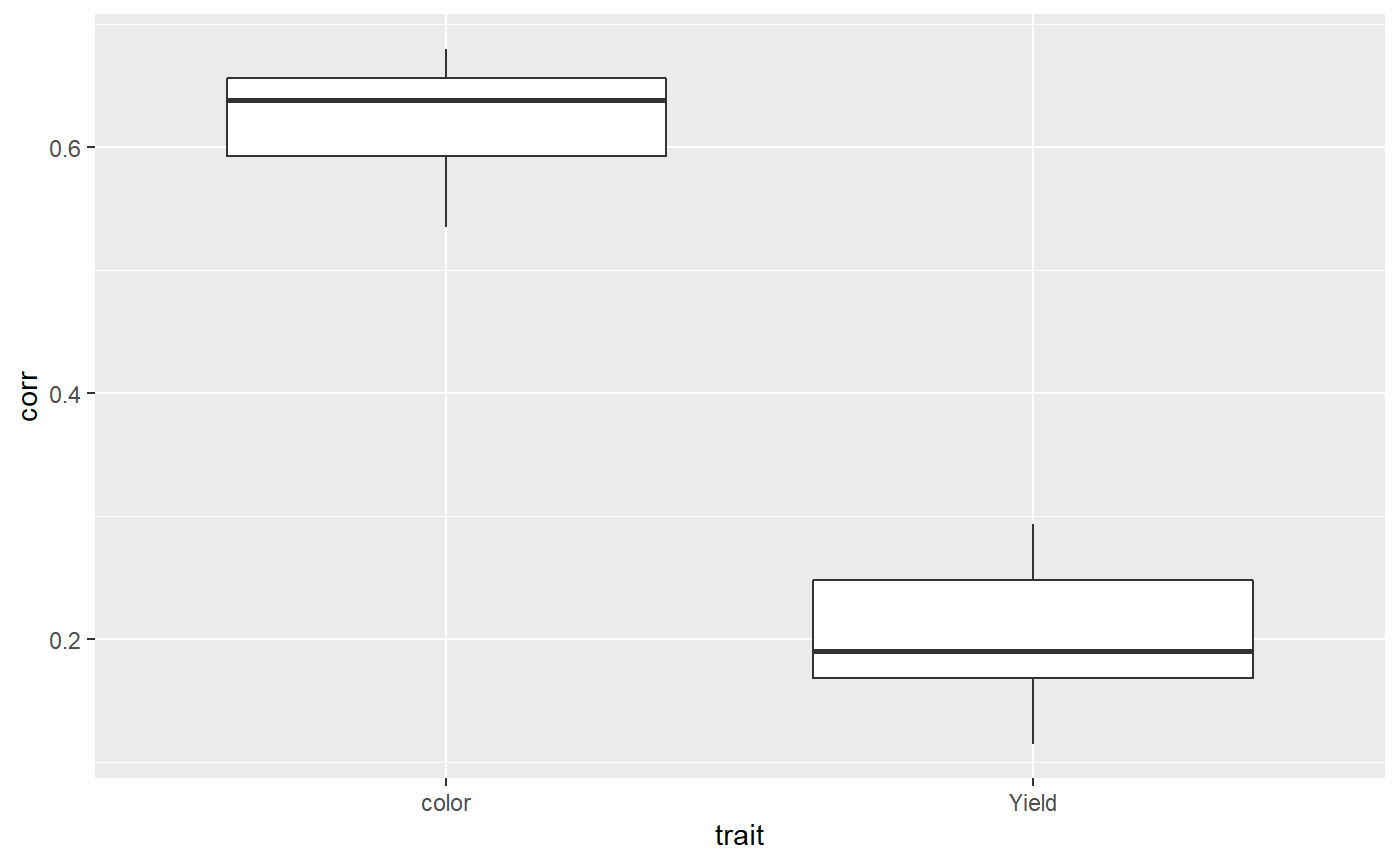
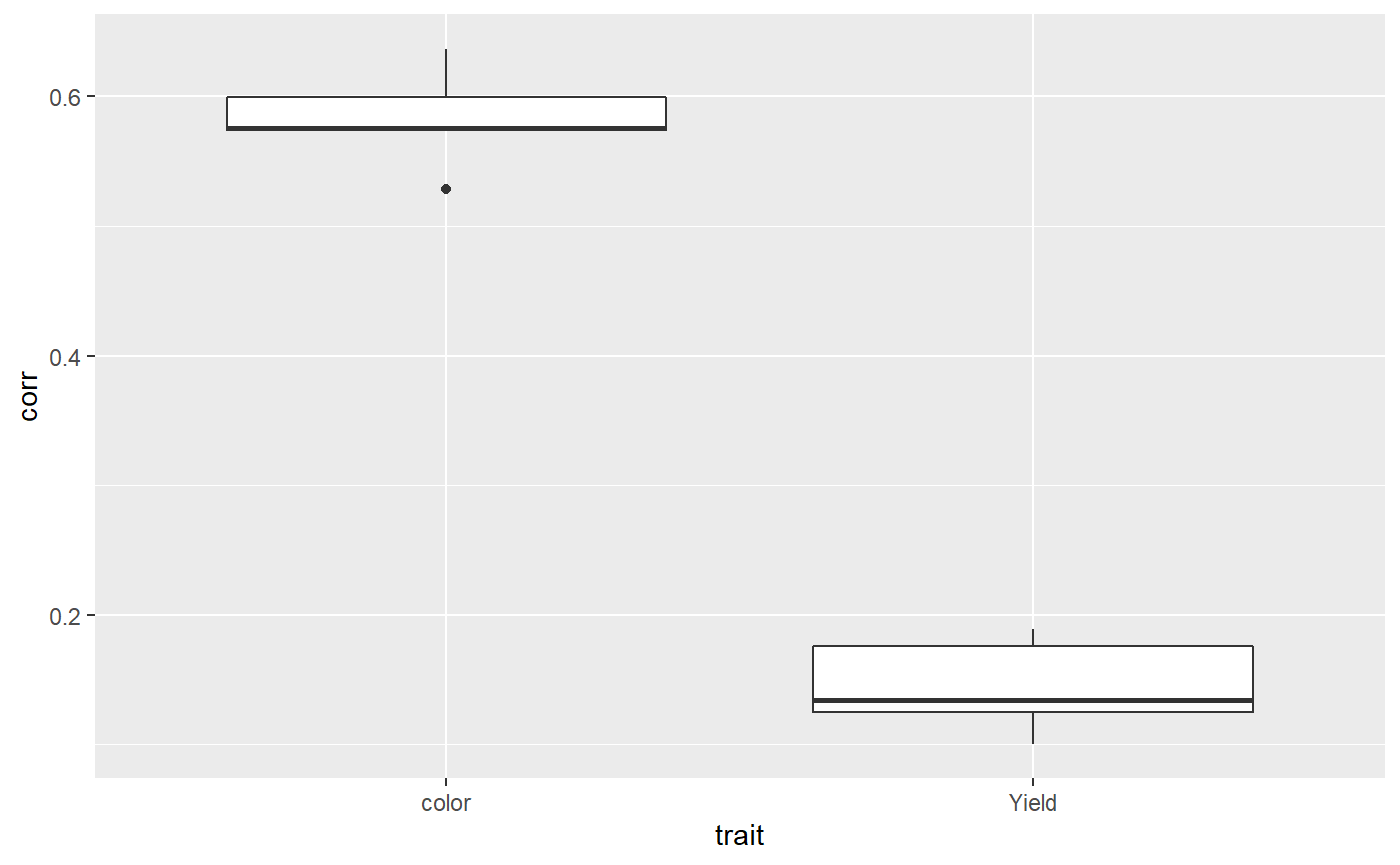
update

diff --git a/docs/articles/my-vignette.html b/docs/articles/my-vignette.html
@@ -151,16 +151,16 @@
 <a class="sourceLine" id="cb5-8" title="8"><span class="co"># Yield  == 362</span></a>
 <a class="sourceLine" id="cb5-9" title="9"><span class="co"># </span></a>
 <a class="sourceLine" id="cb5-10" title="10"><span class="co"># prior trait   randomPop   hrk corr    finishedAt</span></a>
-<a class="sourceLine" id="cb5-11" title="11"><span class="co"># sommer    color   Pop_1   0.5491  0.6799  2020-03-20 08:07:41</span></a>
-<a class="sourceLine" id="cb5-12" title="12"><span class="co"># sommer    color   Pop_2   0.6029  0.6383  2020-03-20 08:07:42</span></a>
-<a class="sourceLine" id="cb5-13" title="13"><span class="co"># sommer    color   Pop_3   0.5801  0.6562  2020-03-20 08:07:42</span></a>
-<a class="sourceLine" id="cb5-14" title="14"><span class="co"># sommer    color   Pop_4   0.6351  0.5932  2020-03-20 08:07:42</span></a>
-<a class="sourceLine" id="cb5-15" title="15"><span class="co"># sommer    color   Pop_5   0.6697  0.5351  2020-03-20 08:07:42</span></a>
-<a class="sourceLine" id="cb5-16" title="16"><span class="co"># sommer    Yield   Pop_1   0.0711  0.2936  2020-03-20 08:07:43</span></a>
-<a class="sourceLine" id="cb5-17" title="17"><span class="co"># sommer    Yield   Pop_2   0.1131  0.1904  2020-03-20 08:07:43</span></a>
-<a class="sourceLine" id="cb5-18" title="18"><span class="co"># sommer    Yield   Pop_3   0.0656  0.1689  2020-03-20 08:07:43</span></a>
-<a class="sourceLine" id="cb5-19" title="19"><span class="co"># sommer    Yield   Pop_4   0.1458  0.1151  2020-03-20 08:07:43</span></a>
-<a class="sourceLine" id="cb5-20" title="20"><span class="co"># sommer    Yield   Pop_5   0.1023  0.2483  2020-03-20 08:07:44</span></a>
+<a class="sourceLine" id="cb5-11" title="11"><span class="co"># sommer    color   Pop_1   0.5533  0.6367  2020-03-20 08:27:55</span></a>
+<a class="sourceLine" id="cb5-12" title="12"><span class="co"># sommer    color   Pop_2   0.6493  0.5287  2020-03-20 08:27:56</span></a>
+<a class="sourceLine" id="cb5-13" title="13"><span class="co"># sommer    color   Pop_3   0.6088  0.5995  2020-03-20 08:27:56</span></a>
+<a class="sourceLine" id="cb5-14" title="14"><span class="co"># sommer    color   Pop_4   0.6127  0.5754  2020-03-20 08:27:56</span></a>
+<a class="sourceLine" id="cb5-15" title="15"><span class="co"># sommer    color   Pop_5   0.6236  0.5739  2020-03-20 08:27:56</span></a>
+<a class="sourceLine" id="cb5-16" title="16"><span class="co"># sommer    Yield   Pop_1   0.1496  0.1341  2020-03-20 08:27:57</span></a>
+<a class="sourceLine" id="cb5-17" title="17"><span class="co"># sommer    Yield   Pop_2   0.1749  0.1005  2020-03-20 08:27:57</span></a>
+<a class="sourceLine" id="cb5-18" title="18"><span class="co"># sommer    Yield   Pop_3   0.141   0.1762  2020-03-20 08:27:57</span></a>
+<a class="sourceLine" id="cb5-19" title="19"><span class="co"># sommer    Yield   Pop_4   0.0867  0.1893  2020-03-20 08:27:58</span></a>
+<a class="sourceLine" id="cb5-20" title="20"><span class="co"># sommer    Yield   Pop_5   0.1534  0.1246  2020-03-20 08:27:58</span></a>
 <a class="sourceLine" id="cb5-21" title="21"><span class="co"># </span></a>
 <a class="sourceLine" id="cb5-22" title="22"><span class="co"># []============================ End =============================[]</span></a></code></pre></div>
 </div>

diff --git a/docs/reference/crossGP.html b/docs/reference/crossGP.html
@@ -205,6 +205,8 @@
       <li><a href="#examples">Examples</a></li>
     </ul>
 
+    <h2>Author</h2>
+    <p>Johan Aparicio, <a href='mailto:j.aparicio@cgiar.org'>j.aparicio@cgiar.org</a></p>
   </div>
 </div>
 
